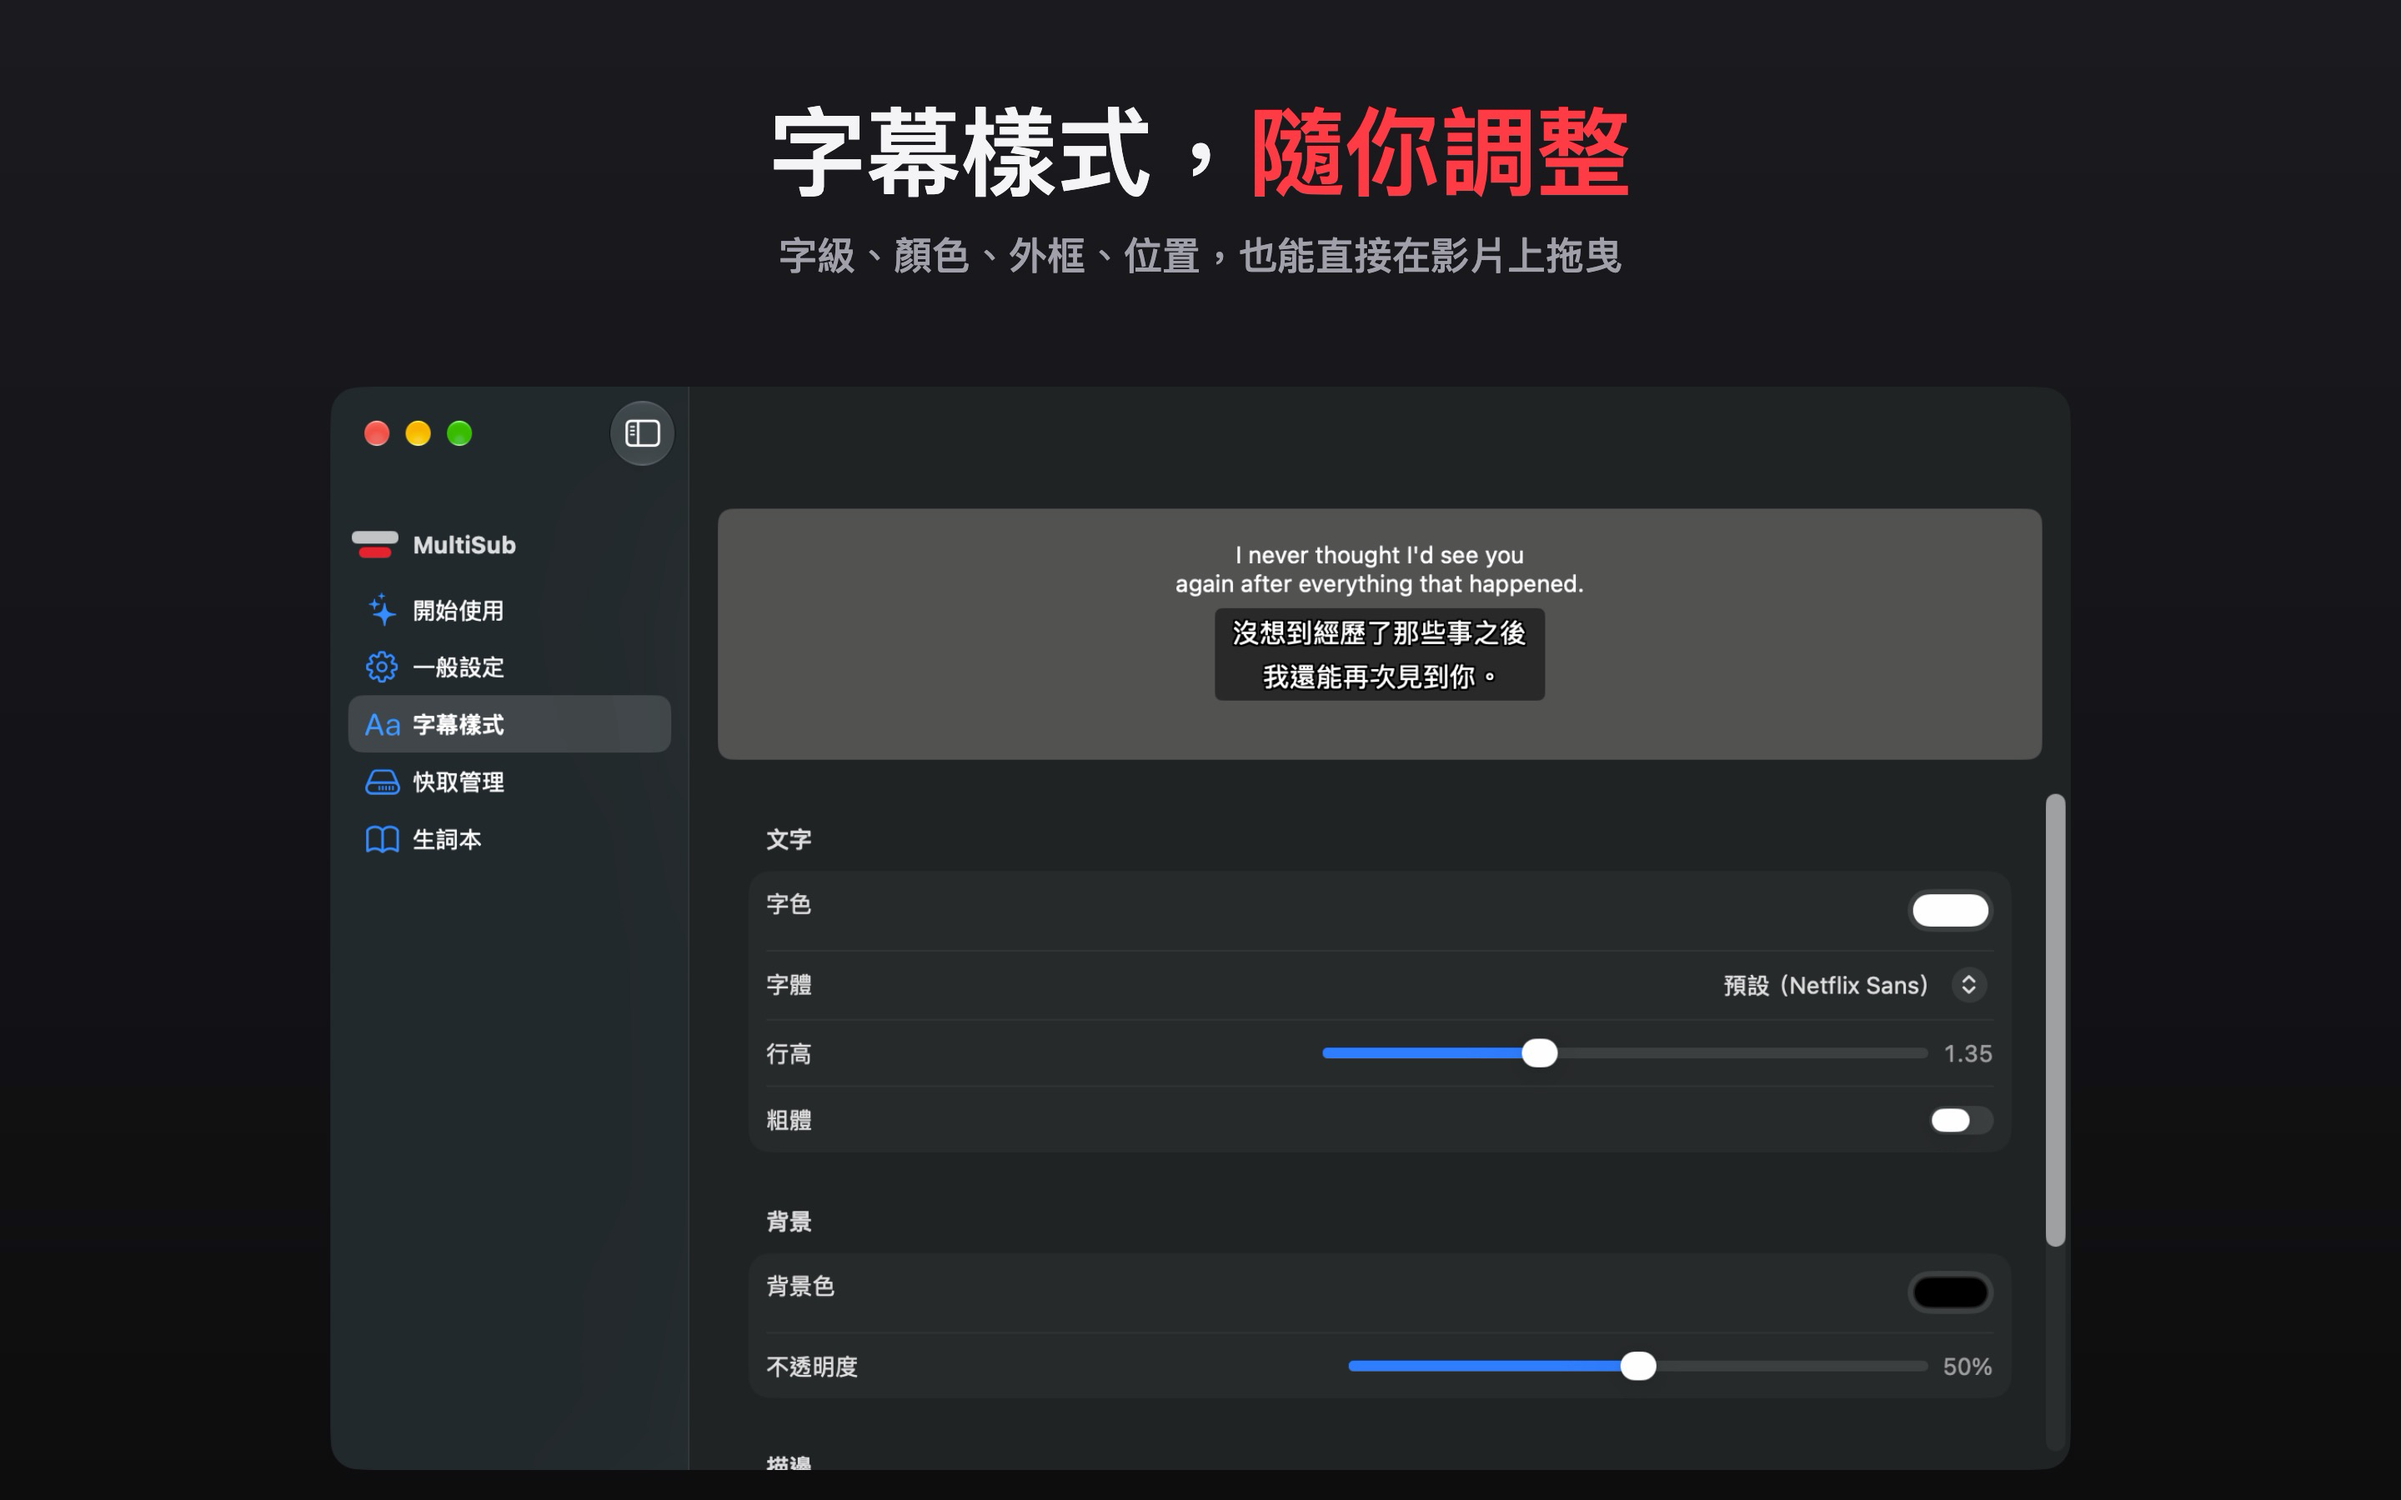
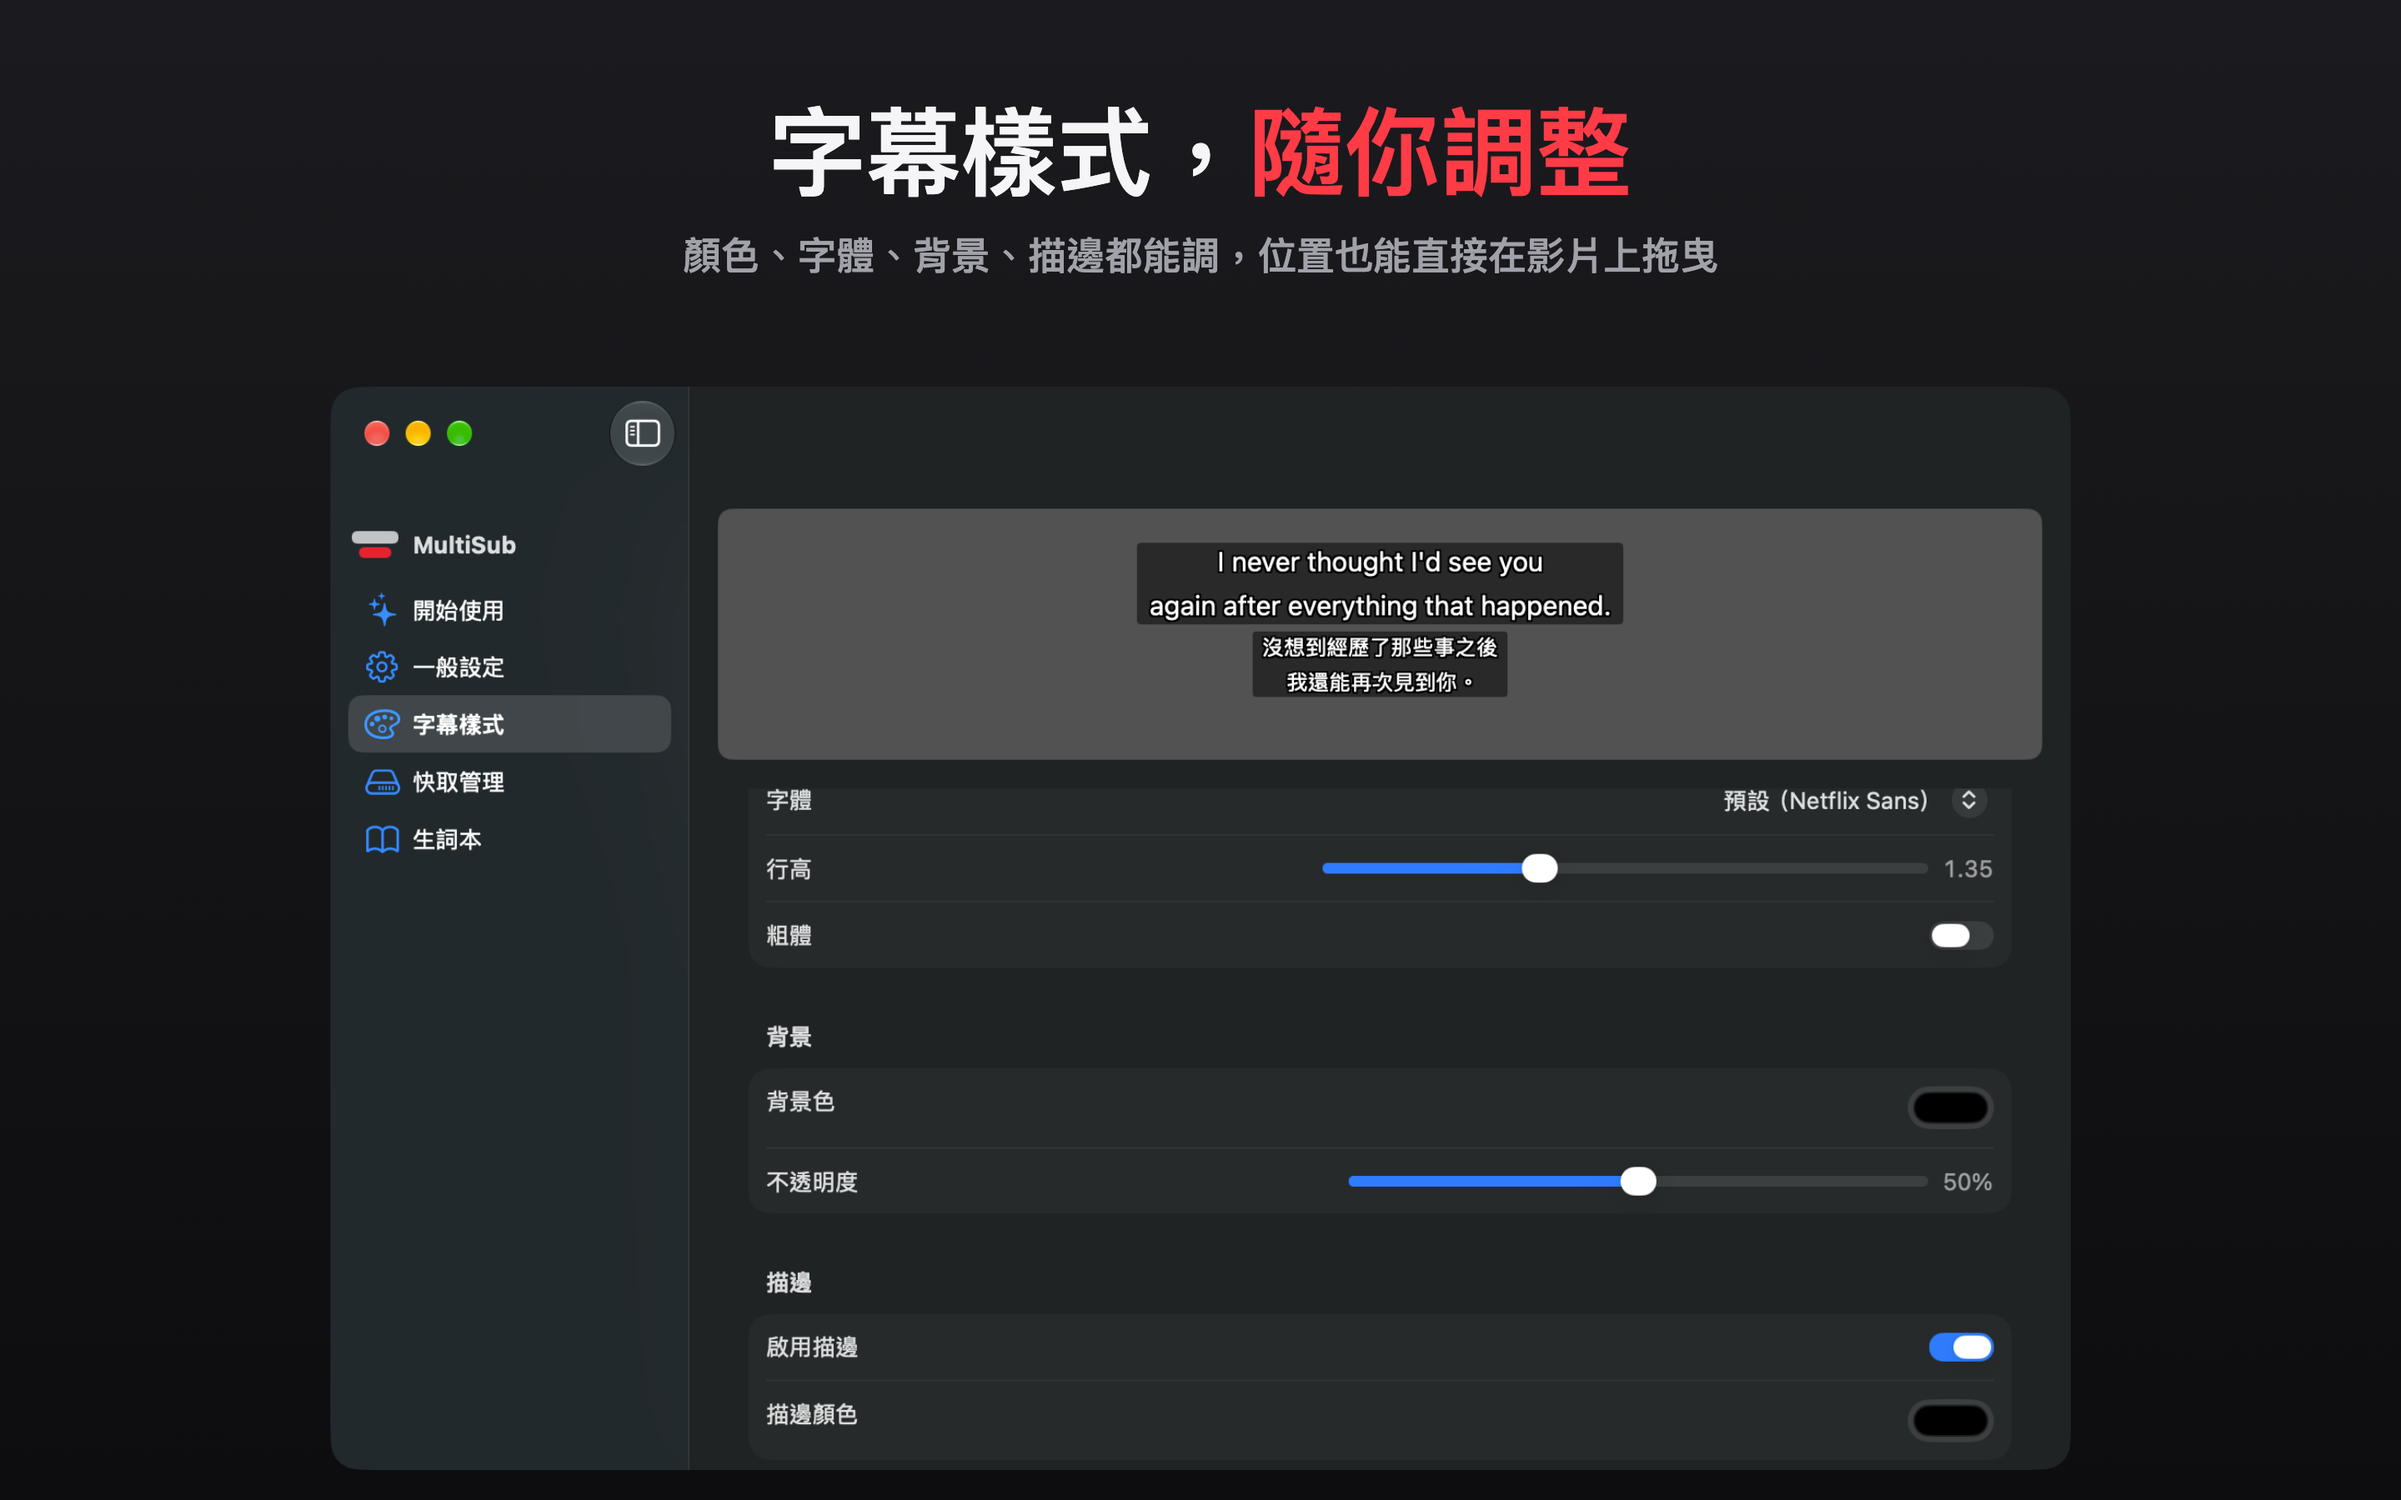
docs(app-store): recapture the app screenshots from the current UI
Active windows with no scroll bars, the new sidebar icon, the engine page
on the API Key tab, Get Started in the default Netflix mode, the word
table aligned to whole rows and the 描邊 section in frame. Captions for
shots 2, 5 and 7 now match what the pictures show, the mock Safari
toolbar uses the real single-color toolbar icon, and render.sh keeps
Chrome's PNG instead of re-encoding it through JPEG.

diff --git a/docs/app-store/screenshots/shot.html b/docs/app-store/screenshots/shot.html
@@ -43,7 +43,7 @@
   .address svg { width: 11px; height: 11px; fill: #b8b8be; }
   .ext-btn { width: 30px; height: 30px; border-radius: 7px; display: grid; place-items: center; }
   .ext-btn.active { background: rgba(255,255,255,.14); }
-  .ext-btn svg { width: 20px; height: 20px; }
+  .ext-btn svg { width: 18px; height: 18px; }
   .viewport { position: absolute; top: 49px; left: 0; right: 0; bottom: 0; }
   /* overlay.css positions #multisub-overlay inside the player box */
   .player { position: absolute; inset: 0; }
@@ -75,7 +75,9 @@ const params = new URLSearchParams(location.search);
 const ID = params.get('id') || '1';
 const LANG = params.get('lang') || 'zh';
 
-const LOGO = '<svg viewBox="0 0 64 64"><rect x="6" y="22" width="52" height="15" rx="5" fill="#f5f5f7"/><rect x="14" y="41" width="36" height="13" rx="5" fill="#ff3b46"/></svg>';
+// The extension's real toolbar icon (extension/toolbar-icon.svg). Safari
+// draws it as a single-color template image, so it gets the toolbar's tint.
+const LOGO = '<svg viewBox="0 0 16 16" fill="#d6d6db"><rect x="1" y="3.5" width="14" height="4.25" rx="1.6"/><rect x="3.25" y="9.25" width="9.5" height="3.75" rx="1.5"/></svg>';
 const LOCK = '<svg viewBox="0 0 16 16"><path d="M4 7V5a4 4 0 1 1 8 0v2h1v8H3V7h1zm2 0h4V5a2 2 0 1 0-4 0v2z"/></svg>';
 
 const SCENES = {
@@ -122,7 +124,7 @@ const SHOTS = {
       translation: ['你是說整筆交易都告吹了？'] } }),
   },
   2: {
-    zh: ['只標<em>你不會的字</em>', '生字標註依你的程度挑字，意思貼合這一句劇情'],
+    zh: ['只標<em>你不會的字</em>', '生字標註依你的程度挑字，意思貼合這句台詞'],
     en: ['Notes on <em>only the words you need</em>', 'Word Notes picks words for your level, with meanings that fit the scene'],
     body: () => browserWindow({ scene: 'street', progress: '61%', subs: {
       annotated: LANG === 'zh'
@@ -141,8 +143,8 @@ const SHOTS = {
     body: () => `<div class="appshot"><img src="assets/app-engine.png"></div>`,
   },
   5: {
-    zh: ['看完一集，<em>生詞本</em>也整理好了', '從整集字幕挑出值得學的字，依 CEFR 分級，附解釋、翻譯和例句'],
-    en: ['Finish an episode, <em>keep the words</em>', 'The words worth learning, sorted by CEFR level, with meanings and examples'],
+    zh: ['看完一集，<em>生詞本</em>也整理好了', '從整集英文字幕挑出值得學的字，依 CEFR 分級，附英文解釋、翻譯和例句'],
+    en: ['Finish an episode, <em>keep the words</em>', 'English words worth learning from the episode, sorted by CEFR level, with English definitions, translations and examples'],
     body: () => `<div class="appshot"><img src="assets/app-vocab.png"></div>`,
   },
   6: {
@@ -151,8 +153,8 @@ const SHOTS = {
     body: () => `<div class="appshot"><img src="assets/app-onboarding.png"></div>`,
   },
   7: {
-    zh: ['字幕樣式，<em>隨你調整</em>', '字級、顏色、外框、位置，也能直接在影片上拖曳'],
-    en: ['Subtitles, <em>your way</em>', 'Size, color, outline and position — or just drag them'],
+    zh: ['字幕樣式，<em>隨你調整</em>', '顏色、字體、背景、描邊都能調，位置也能直接在影片上拖曳'],
+    en: ['Subtitles, <em>your way</em>', 'Color, font, background and outline, and drag the subtitle into place on the video'],
     body: () => `<div class="appshot"><img src="assets/app-styles.png"></div>`,
   },
 };
